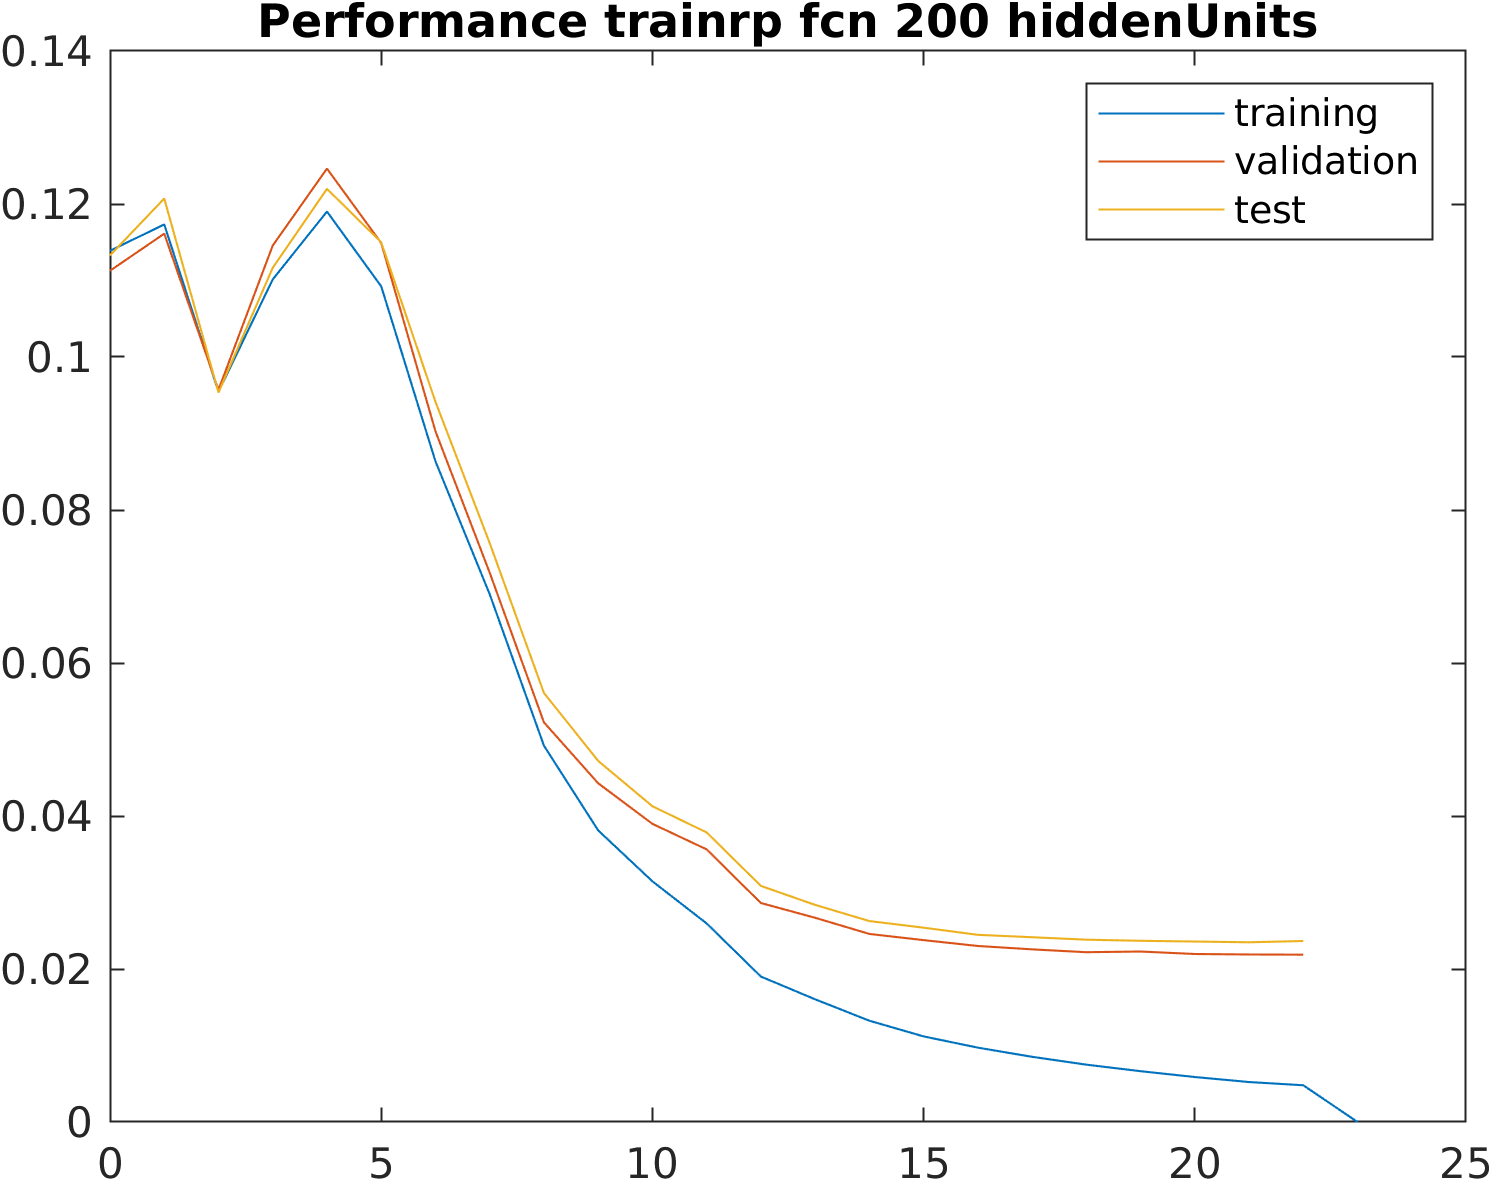
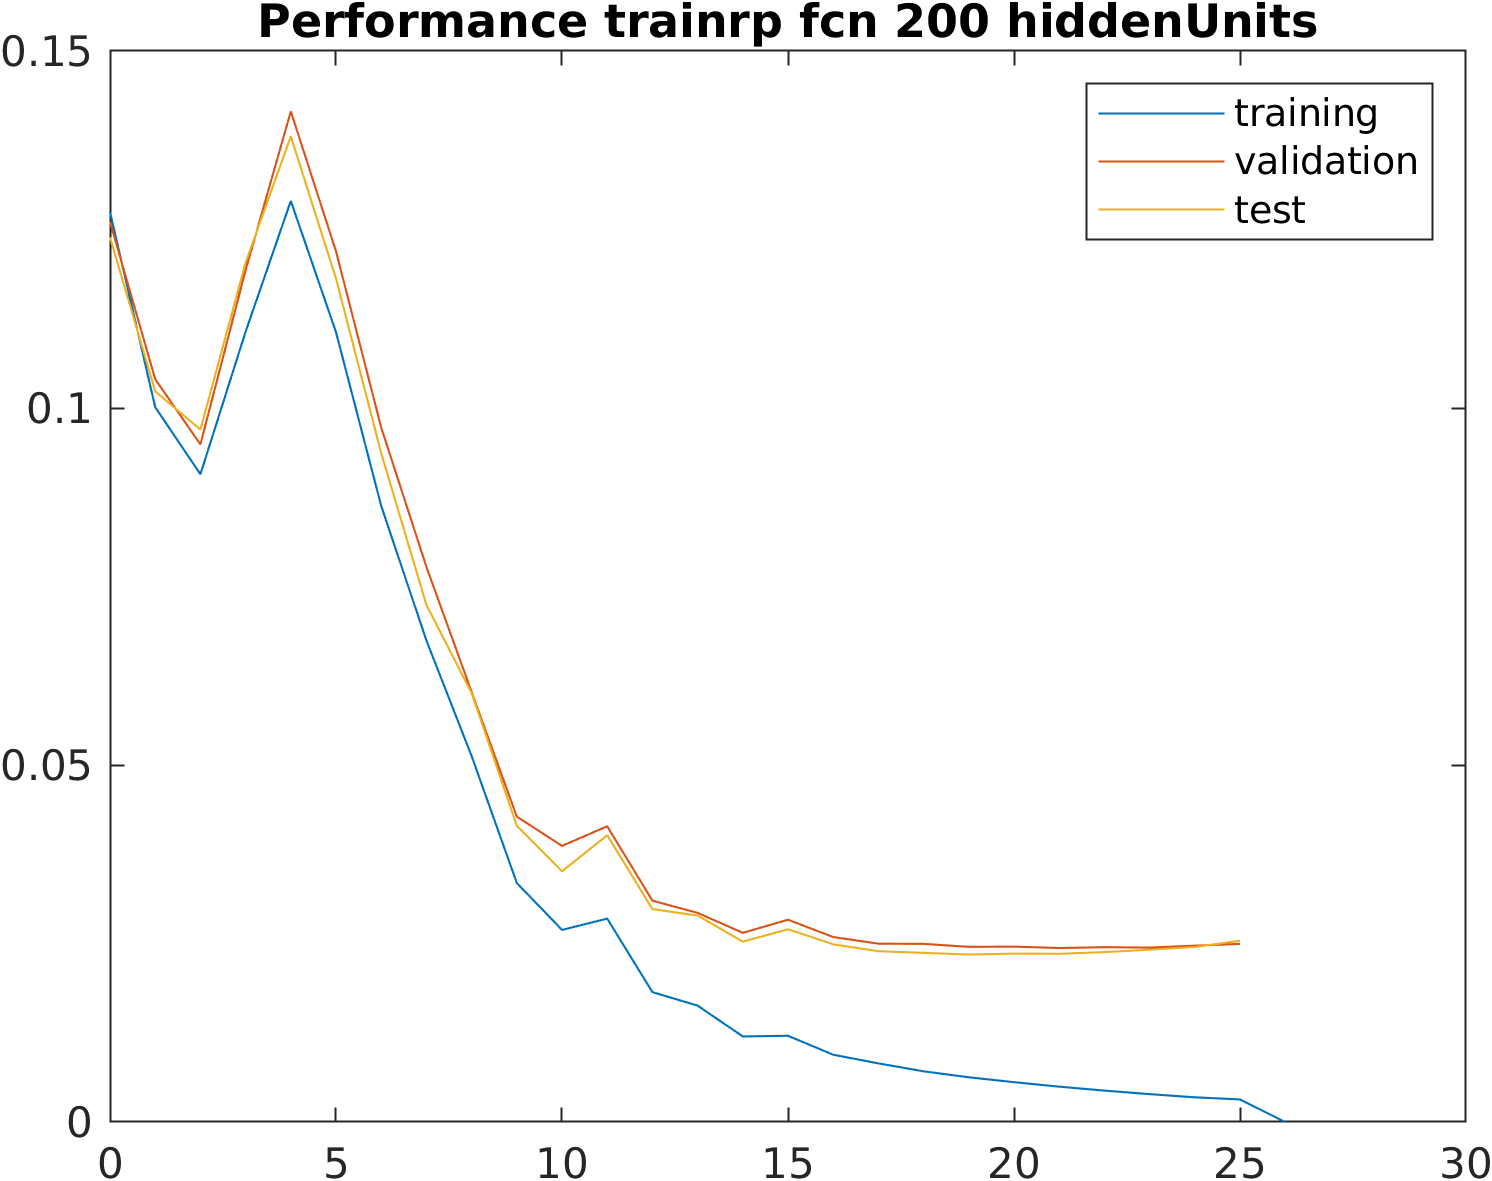
last changes to scripts and execution of exploration with sgdm

diff --git a/LAB2/nn.m b/LAB2/nn.m
@@ -4,7 +4,7 @@ clear all; close all;
 
 %% GLOBAL VARIABLES
 
-HIDDEN_UNITS=500;
+HIDDEN_UNITS=200;
 TRAIN_RATIO=0.8;
 TEST_RATIO=0.1;
 VAL_RATIO=0.1;
@@ -37,7 +37,7 @@ net.divideParam.testRatio = TEST_RATIO; % Ratio of data used as test set
 
 %% LAYERS TYPE DEFINITION
 
-net.trainFcn = 'traincgf';
+net.trainFcn = 'traincgb';
 
 net.trainParam.max_fail = 6; % validation check parameter
 net.trainParam.epochs = EPOCHS; % number of epochs parameter

diff --git a/LAB2/main.m b/LAB2/main.m
@@ -16,10 +16,10 @@ load('data/Output.mat');
 
 %% CONSTANT VALUES
 EPOCHS = 1000;
-NRUNS = 1;
+NRUNS = 5;
 GPU = 1;
-trainFcn = 'traingdx';
-trainFcnParams = 0;
+trainFcn = 'traingdm';
+trainFcnParams = struct('lr',0.1,'mc',0.8);
 
 %% INIT ACCURACIES AND PERFORMANCES
 allPerformances = zeros(3,numPercentages,numHiddenUnits,numFunctions);
